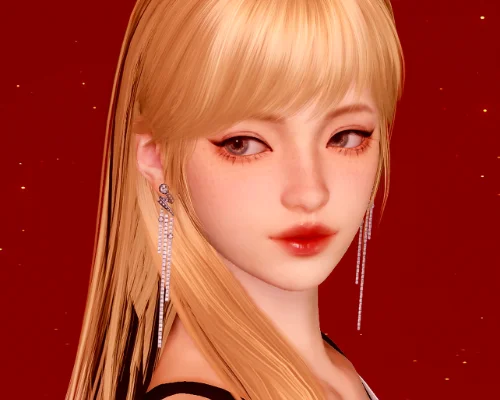
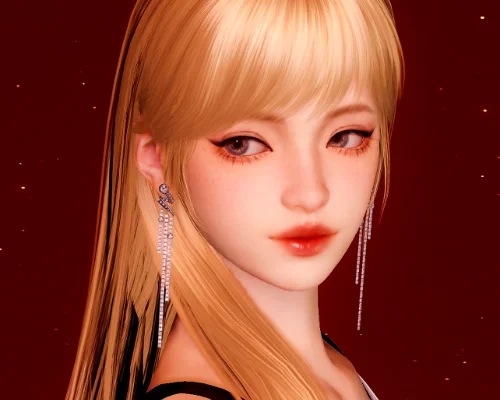
refactored code and added more thumbnails

diff --git a/src/lib/lightbox.ts b/src/lib/lightbox.ts
@@ -33,20 +33,22 @@ export class Lightbox {
         if (!this.lightbox) {
             return;
         }
-        this.lightbox.addEventListener('click', () => {
-            const isFilterMenuExpanded = showFiltersBtn?.getAttribute('aria-expanded') === 'true' && hideFiltersBtn?.getAttribute('aria-expanded') === 'true';
-            const isNavigationMenuExpanded = navigationMenuBtn?.getAttribute('aria-expanded') === 'true' && navigationCloseBtn?.getAttribute('aria-expanded') === 'true';
+        this.lightbox.addEventListener('click', this.clickHandler.bind(this, { showFiltersBtn, hideFiltersBtn, navigationMenuBtn, navigationCloseBtn }));
+    }
 
-            if (isFilterMenuExpanded) {
-                showFiltersBtn?.setAttribute('aria-expanded', `${!isFilterMenuExpanded}`);
-                hideFiltersBtn?.setAttribute('aria-expanded', `${!isFilterMenuExpanded}`);
-                this.close();
-            }
-            if (isNavigationMenuExpanded) {
-                navigationMenuBtn.setAttribute('aria-expanded', `${!isNavigationMenuExpanded}`);
-                navigationCloseBtn.setAttribute('aria-expanded', `${!isNavigationMenuExpanded}`);
-                this.close();
-            }
-        });
+    protected clickHandler({ showFiltersBtn, hideFiltersBtn, navigationMenuBtn, navigationCloseBtn }: LightboxEventListenerParams, event: PointerEvent) {
+        const isFilterMenuExpanded = showFiltersBtn?.getAttribute('aria-expanded') === 'true' && hideFiltersBtn?.getAttribute('aria-expanded') === 'true';
+        const isNavigationMenuExpanded = navigationMenuBtn?.getAttribute('aria-expanded') === 'true' && navigationCloseBtn?.getAttribute('aria-expanded') === 'true';
+
+        if (isFilterMenuExpanded) {
+            showFiltersBtn?.setAttribute('aria-expanded', `${!isFilterMenuExpanded}`);
+            hideFiltersBtn?.setAttribute('aria-expanded', `${!isFilterMenuExpanded}`);
+            this.close();
+        }
+        if (isNavigationMenuExpanded) {
+            navigationMenuBtn?.setAttribute('aria-expanded', `${!isNavigationMenuExpanded}`);
+            navigationCloseBtn?.setAttribute('aria-expanded', `${!isNavigationMenuExpanded}`);
+            this.close();
+        }
     }
 }

diff --git a/src/styles/global.css b/src/styles/global.css
@@ -430,6 +430,7 @@ body {
     white-space: nowrap;
     overflow: hidden;
     text-overflow: ellipsis;
+
 }
 
 #makeup-tutorials-container .card-instruction {